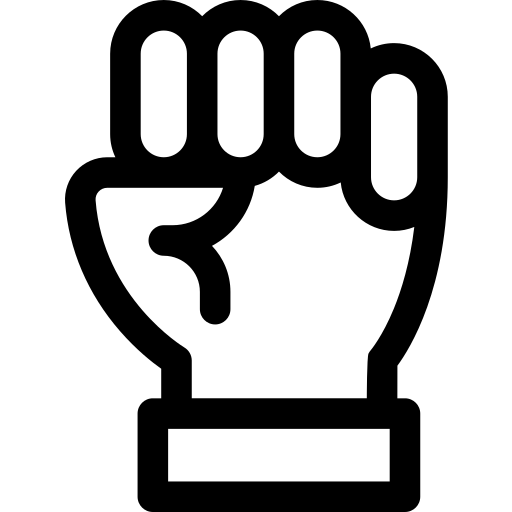
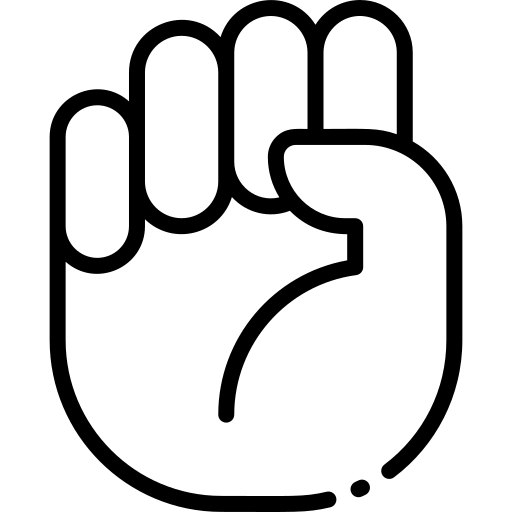
html, css 아이콘 수정

diff --git a/rspGame/rsp.html b/rspGame/rsp.html
@@ -17,17 +17,17 @@
             <!--가위-->
             <button type="button" id="btn1" value="가위">
                 <img src="./img/scissor.png" alt="" class="img-scissor" id="가위">
-                <!-- <a href="https://www.flaticon.com/kr/free-icons/" title="가위 아이콘">가위 아이콘  제작자: Freepik - Flaticon</a> -->
+                <!--<a href="https://www.flaticon.com/free-icons/victory" title="victory icons">Victory icons created by Vitaly Gorbachev - Flaticon</a>-->
             </button>
             <!--바위-->
             <button type="button" id="btn2" value="바위">
                 <img src="./img/rock.png" alt="" class="img-rock" id="바위">
-                <!--<a href="https://www.flaticon.com/kr/free-icons/" title="주먹 아이콘">주먹 아이콘  제작자: Freepik - Flaticon</a>-->
+                <!--<a href="https://www.flaticon.com/free-icons/sign-language" title="sign language icons">Sign language icons created by Vitaly Gorbachev - Flaticon</a>-->
             </button>
             <!--보-->
             <button type="button" id="btn3" value="보">
-                <img src="./img/hand.png" alt="" class="img-paper" id="보">
-                <!--<a href="https://www.flaticon.com/kr/free-icons/" title="손 아이콘">손 아이콘  제작자: Freepik - Flaticon</a>-->
+                <img src="./img/paper.png" alt="" class="img-paper" id="보">
+                <!--<a href="https://www.flaticon.com/free-icons/hand" title="hand icons">Hand icons created by Vitaly Gorbachev - Flaticon</a>-->
             </button>
         </div>
         <!-- 결과: 컴퓨터 vs 본인-->

diff --git a/rspGame/style.css b/rspGame/style.css
@@ -30,20 +30,27 @@ main {
 .btn {
   padding: 30px 0;
 }
+.btn #btn1,
+#btn2,
+#btn3 {
+  margin: 0 10px;
+}
 .btn #btn1 .img-scissor {
-  width: 80px;
-  height: 70px;
+  width: 68px;
+  height: 68px;
   cursor: pointer;
 }
 .btn #btn2 .img-rock {
-  width: 57px;
-  height: 57px;
+  width: 65px;
+  height: 65px;
   cursor: pointer;
 }
 .btn #btn3 .img-paper {
-  width: 70px;
-  height: 60px;
+  width: 65px;
+  height: 65px;
   cursor: pointer;
+  padding-bottom: 3px;
+  margin-left: 3px;
 }
 
 .result h4 {

diff --git a/rspGame/app.js b/rspGame/app.js
@@ -21,14 +21,6 @@ buttons.forEach((button) => {
   button.addEventListener("click", game);
 });
 
-//최종결과 발표
-// const finalResult = () => {
-//   const mineResult = document.querySelector(".myChoice");
-//   const computerResult = document.querySelector(".computerChoice");
-//   mineResult.innerText = this.myChoice;
-//   computerResult.innerText = this.computer;
-// };
-
 //승부 결과
 const gameResult = (myChoice, computer) => {
   const mineResult = document.querySelector(".myChoice");
